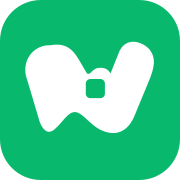
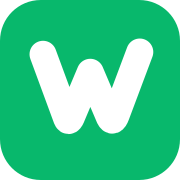
feat: Integrate the custom W into the WeGen2 wordmark

Changed region(s): [[0.1389, 0.1944, 0.8611, 0.75]]

diff --git a/WeGen2/index.html b/WeGen2/index.html
@@ -11,13 +11,13 @@
     <link rel="canonical" href="https://zhuangshaobin.github.io/WeGen2/" />
     <meta property="og:title" content="WeGen2 — Native Pixel-Space Multimodal Creation" />
     <meta property="og:description" content="Bring an idea. See where it goes. Image generation, editing and composition with WeGen2." />
-    <meta property="og:image" content="https://zhuangshaobin.github.io/WeGen2/assets/release-cover.webp?v=20261119w" />
+    <meta property="og:image" content="https://zhuangshaobin.github.io/WeGen2/assets/release-cover.webp?v=20261119inlinew" />
     <meta property="og:type" content="website" />
     <meta name="twitter:card" content="summary_large_image" />
     <meta name="theme-color" content="#f8f9f3" />
     <meta name="robots" content="noindex,nofollow" />
-    <link rel="icon" type="image/svg+xml" href="assets/wegen2-favicon.svg?v=20261119w" />
-    <link rel="apple-touch-icon" sizes="180x180" href="assets/wegen2-apple-touch-icon.png?v=20261119w" />
+    <link rel="icon" type="image/svg+xml" href="assets/wegen2-favicon.svg?v=20261119inlinew" />
+    <link rel="apple-touch-icon" sizes="180x180" href="assets/wegen2-apple-touch-icon.png?v=20261119inlinew" />
     <!-- INLINE_STYLE_START -->
     <style>
       :root {
@@ -1890,7 +1890,7 @@
         left: 46px;
       }
       .brand-hero #hero-title {
-        width: min(880px, 83%);
+        width: min(740px, 83%);
         padding: 0;
         margin: 10px 0 0;
         line-height: 0;
@@ -2009,6 +2009,30 @@
         color: var(--muted, #527063);
         font-size: 13px;
       }
+
+      /* The custom W is part of the wordmark, including navigation and footer. */
+      .wordmark {
+        gap: 0;
+        line-height: 0;
+      }
+      .site-header .wordmark img {
+        display: block;
+        width: 150px;
+        height: auto;
+      }
+      footer .wordmark img {
+        display: block;
+        width: 132px;
+        height: auto;
+      }
+      @media (max-width: 760px) {
+        .site-header .wordmark img {
+          width: 132px;
+        }
+        footer .wordmark img {
+          width: 124px;
+        }
+      }
     </style>
     <!-- INLINE_STYLE_END -->
   </head>
@@ -2016,8 +2040,8 @@
     <a class="skip-link" href="#main">Skip to content</a>
     <header class="site-header">
       <a class="wordmark" href="#main" aria-label="WeGen2 home"
-        ><img alt="" decoding="async" height="38" src="assets/wegen2-mark.svg?v=20261119w" width="38" /><span>WeGen2</span></a
-      >
+        ><img alt="WeGen2" decoding="async" width="365" height="88" src="assets/wegen2-wordmark.svg?v=20261119inlinew"
+      /></a>
       <nav aria-label="Main navigation">
         <a href="#capabilities">Explore</a><a href="#film">Film</a><a href="#method">The model</a
         ><a href="#inference" class="nav-pill">Get started <span aria-hidden="true">↗</span></a>
@@ -2027,47 +2051,52 @@
       <section class="hero brand-hero" aria-labelledby="hero-title">
         <p class="brand-eyebrow">Unified multimodal creation</p>
         <h1 id="hero-title" aria-label="WeGen2">
-          <svg class="hero-wordmark" xmlns="http://www.w3.org/2000/svg" width="508" height="128" viewBox="0 0 508 128" role="img" aria-label="WeGen2">
+          <svg class="hero-wordmark" xmlns="http://www.w3.org/2000/svg" width="365" height="88" viewBox="0 20 365 88" role="img" aria-label="WeGen2">
             <title>WeGen2</title>
-            <desc>An unfolding W with a pixel-shaped open centre. Original WeGen2 identity.</desc>
-            <defs>
-              <mask id="wg2-hero-pixel" maskUnits="userSpaceOnUse" x="0" y="0" width="128" height="128">
-                <rect width="128" height="128" fill="white" />
-                <path d="M64 54 H73 A4 4 0 0 1 77 58 V67 A4 4 0 0 1 73 71 H64 A4 4 0 0 1 60 67 V58 A4 4 0 0 1 64 54 Z" fill="black" />
-              </mask>
-            </defs>
-            <g mask="url(#wg2-hero-pixel)">
-              <path
-                d="M28 24 C40 22 47 25 54 37 L61 49 C65 51 65 44 73 44 C78 44 80 46 82 49 L90 29 C96 17 109 20 116 27 C123 35 121 44 116 56 L104 85 C98 101 87 105 75 100 C67 97 61 89 55 85 C46 79 41 91 33 98 C27 104 22 100 19 92 L8 55 C3 42 9 29 21 25 C24 24 26 24 28 24 Z"
-                fill="#08B86C"
-              />
-              <path
-                d="M82 49 L90 29 C96 17 109 20 116 27 C123 35 121 44 116 56 L104 85 C98 101 87 105 75 100 C67 97 61 89 55 85 C46 79 41 91 33 98 C39 87 43 70 60 70 L66 70 C76 70 77 59 82 49 Z"
-                fill="#07533C"
-              />
+            <desc>The rounded two-tone W forms the first letter of WeGen2.</desc>
+            <g data-brand-initial="W" transform="translate(0.465048 17.437086) scale(0.75349522)">
+              <g aria-label="W">
+                <path
+                  d="M22 32 L43 89 Q45 94 48 86 L64 48 L81 88 Q84 94 87 86 L108 30"
+                  stroke="#08B86C"
+                  fill="none"
+                  stroke-width="24"
+                  stroke-linecap="round"
+                  stroke-linejoin="round"
+                />
+                <path
+                  d="M64 48 L81 88 Q84 94 87 86 L108 30"
+                  stroke="#07533C"
+                  fill="none"
+                  stroke-width="24"
+                  stroke-linecap="round"
+                  stroke-linejoin="round"
+                />
+              </g>
             </g>
-            <g fill="#073F32">
+            <g data-brand-rest="eGen2" transform="translate(-141.717374 0)" fill="#073F32">
               <path
-                transform="translate(144.00000 94) scale(0.08800000 -0.08800000)"
-                d="M267.554443359375 0 16.675048828125 705H176.239501953125L358.710205078125 160.515869140625H315.577880859375L508.927978515625 705H621.468994140625L805.939697265625 160.515869140625H768.7470703125L954.84423828125 705H1105.216064453125L852.336669921875 0H726.289794921875L549.445556640625 501.27978515625H573.38525390625L393.91455078125 0Z"
-              />
-              <path
+                xmlns="http://www.w3.org/2000/svg"
                 transform="translate(236.14375 94) scale(0.08800000 -0.08800000)"
                 d="M312.89111328125 -10.62646484375Q226.445556640625 -10.62646484375 163.7830810546875 20.686767578125Q101.12060546875 52 67.36767578125 109.4698486328125Q33.61474609375 166.939697265625 33.61474609375 245.2529296875Q33.61474609375 321.2529296875 66.054443359375 378.566162109375Q98.494140625 435.87939453125 155.560302734375 468.5360107421875Q212.62646484375 501.192626953125 285.505859375 501.192626953125Q357.698486328125 501.192626953125 409.7344970703125 470.566162109375Q461.7705078125 439.939697265625 490.3668212890625 383.8433837890625Q518.963134765625 327.7470703125 518.963134765625 250.807373046875V212.86767578125H158.107177734375V290.819091796875H409.9765625L394.289794921875 277.072021484375Q394.289794921875 338.180908203125 367.7353515625 369.669189453125Q341.180908203125 401.157470703125 292.072021484375 401.157470703125Q255.39697265625 401.157470703125 229.1859130859375 384.163330078125Q202.974853515625 367.169189453125 189.1976318359375 335.2713623046875Q175.42041015625 303.37353515625 175.42041015625 257.819091796875V250.192626953125Q175.42041015625 198.951416015625 190.854248046875 166.2403564453125Q206.2880859375 133.529296875 237.7822265625 117.8785400390625Q269.2763671875 102.227783203125 316.14404296875 102.227783203125Q355.89111328125 102.227783203125 397.0477294921875 114.2579345703125Q438.204345703125 126.2880859375 471.2646484375 150.7822265625L510.963134765625 50.494140625Q474.39697265625 22.433837890625 420.457275390625 5.9036865234375Q366.517578125 -10.62646484375 312.89111328125 -10.62646484375Z"
               />
               <path
+                xmlns="http://www.w3.org/2000/svg"
                 transform="translate(283.75625 94) scale(0.08800000 -0.08800000)"
                 d="M420.072021484375 -10.62646484375Q300.87939453125 -10.62646484375 218.5 34.0Q136.12060546875 78.62646484375 93.0242919921875 159.62646484375Q49.927978515625 240.62646484375 49.927978515625 350.060302734375Q49.927978515625 462.060302734375 94.6507568359375 544.0301513671875Q139.37353515625 626 223.505859375 670.813232421875Q307.63818359375 715.62646484375 425.336669921875 715.62646484375Q475.0234375 715.62646484375 521.14990234375 706.439697265625Q567.2763671875 697.2529296875 606.589599609375 680.0360107421875Q645.90283203125 662.819091796875 673.589599609375 638.698486328125L624.324951171875 518.33837890625Q577.63818359375 551.892822265625 529.89111328125 566.639892578125Q482.14404296875 581.386962890625 425.963134765625 581.386962890625Q319.2880859375 581.386962890625 265.546875 522.025146484375Q211.8056640625 462.663330078125 211.8056640625 350.060302734375Q211.8056640625 237.39697265625 266.5770263671875 179.1917724609375Q321.348388671875 120.986572265625 428.2646484375 120.986572265625Q463.566162109375 120.986572265625 501.7470703125 128.046875Q539.927978515625 135.107177734375 577.36181640625 147.854248046875L548.289794921875 84.589599609375V277.2294921875H396.313232421875V388.830810546875H676.2763671875V42.62646484375Q641.7705078125 26 599.330810546875 14.186767578125Q556.89111328125 2.37353515625 511.1080322265625 -4.12646484375Q465.324951171875 -10.62646484375 420.072021484375 -10.62646484375Z"
               />
               <path
+                xmlns="http://www.w3.org/2000/svg"
                 transform="translate(348.35312 94) scale(0.08800000 -0.08800000)"
                 d="M312.89111328125 -10.62646484375Q226.445556640625 -10.62646484375 163.7830810546875 20.686767578125Q101.12060546875 52 67.36767578125 109.4698486328125Q33.61474609375 166.939697265625 33.61474609375 245.2529296875Q33.61474609375 321.2529296875 66.054443359375 378.566162109375Q98.494140625 435.87939453125 155.560302734375 468.5360107421875Q212.62646484375 501.192626953125 285.505859375 501.192626953125Q357.698486328125 501.192626953125 409.7344970703125 470.566162109375Q461.7705078125 439.939697265625 490.3668212890625 383.8433837890625Q518.963134765625 327.7470703125 518.963134765625 250.807373046875V212.86767578125H158.107177734375V290.819091796875H409.9765625L394.289794921875 277.072021484375Q394.289794921875 338.180908203125 367.7353515625 369.669189453125Q341.180908203125 401.157470703125 292.072021484375 401.157470703125Q255.39697265625 401.157470703125 229.1859130859375 384.163330078125Q202.974853515625 367.169189453125 189.1976318359375 335.2713623046875Q175.42041015625 303.37353515625 175.42041015625 257.819091796875V250.192626953125Q175.42041015625 198.951416015625 190.854248046875 166.2403564453125Q206.2880859375 133.529296875 237.7822265625 117.8785400390625Q269.2763671875 102.227783203125 316.14404296875 102.227783203125Q355.89111328125 102.227783203125 397.0477294921875 114.2579345703125Q438.204345703125 126.2880859375 471.2646484375 150.7822265625L510.963134765625 50.494140625Q474.39697265625 22.433837890625 420.457275390625 5.9036865234375Q366.517578125 -10.62646484375 312.89111328125 -10.62646484375Z"
               />
               <path
+                xmlns="http://www.w3.org/2000/svg"
                 transform="translate(395.96562 94) scale(0.08800000 -0.08800000)"
                 d="M58.422119140625 0V490.566162109375H205.7939453125V398.517578125H194.7939453125Q217.733642578125 448.38525390625 263.2939453125 474.7889404296875Q308.854248046875 501.192626953125 366.601318359375 501.192626953125Q425.601318359375 501.192626953125 463.76653575067934 478.79390920474543Q501.9317531419837 456.3951914563658 520.7665357506794 410.4778200721877Q539.601318359375 364.5604486880095 539.601318359375 294.554443359375V0H388.60302734375V287.927978515625Q388.60302734375 322.169189453125 380.35595703125 343.35009765625Q372.10888671875 364.531005859375 355.6598909818209 374.46484375Q339.21089524489184 384.398681640625 313.7587890625 384.398681640625Q282.457275390625 384.398681640625 258.8277013442096 370.8428236607143Q235.19812729779412 357.2869656808036 222.30926872702207 332.38201729910713Q209.42041015625 307.4770689174107 209.42041015625 274.060302734375V0Z"
               />
               <path
+                xmlns="http://www.w3.org/2000/svg"
                 transform="translate(447.62500 94) scale(0.08800000 -0.08800000)"
                 d="M74.36181640625 0V114.733642578125L294.531005859375 347.39697265625Q323.33837890625 377.89111328125 340.4288330078125 403.072021484375Q357.519287109375 428.2529296875 365.7362060546875 451.2772216796875Q373.953125 474.301513671875 373.953125 497.169189453125Q373.953125 541.2177734375 345.58544921875 563.9288330078125Q317.2177734375 586.639892578125 263.482421875 586.639892578125Q219.927978515625 586.639892578125 176.994140625 570.392822265625Q134.060302734375 554.145751953125 93.060302734375 519.651611328125L43.169189453125 634.445556640625Q87.048583984375 671.505859375 151.4581298828125 693.566162109375Q215.86767578125 715.62646484375 284.494140625 715.62646484375Q363.313232421875 715.62646484375 417.192626953125 692.1566162109375Q471.072021484375 668.686767578125 499.01171875 623.7470703125Q526.951416015625 578.807373046875 526.951416015625 514.2412109375Q526.951416015625 482.2412109375 519.7646484375 451.7412109375Q512.577880859375 421.2412109375 497.2344970703125 391.3978271484375Q481.89111328125 361.554443359375 458.2344970703125 330.36767578125Q434.577880859375 299.180908203125 400.951416015625 265.494140625L225.7939453125 87.03515625V127.2998046875H553.324951171875V0Z"
               />
@@ -2122,14 +2151,14 @@
             controls
             playsinline
             preload="none"
-            poster="assets/film-poster-v7.webp"
+            poster="assets/film-poster-v8.webp"
             width="1920"
             height="1080"
             aria-label="WeGen2 showcase and model introduction"
           >
-            <source src="assets/wegen2-film-v7-720.mp4" type="video/mp4" />
-            <track kind="captions" src="assets/film-captions-v7.vtt" srclang="en" label="English descriptions" />
-            Your browser does not support embedded video. <a href="assets/wegen2-film-v7.mp4">Download the film</a>.
+            <source src="assets/wegen2-film-v8-720.mp4" type="video/mp4" />
+            <track kind="captions" src="assets/film-captions-v8.vtt" srclang="en" label="English descriptions" />
+            Your browser does not support embedded video. <a href="assets/wegen2-film-v8.mp4">Download the film</a>.
           </video>
           <div class="film-start" hidden>
             <button id="film-start-button" type="button"><span aria-hidden="true">▷</span><span class="film-start-label">Play film</span></button>
@@ -2153,7 +2182,7 @@
                 <option value="360">360p</option>
               </select></label
             >
-            <a href="assets/wegen2-film-v7.mp4" download>Download 1080p ↗</a><a href="film-transcript.html?v=film7">Visual transcript ↗</a>
+            <a href="assets/wegen2-film-v8.mp4" download>Download 1080p ↗</a><a href="film-transcript.html?v=film8">Visual transcript ↗</a>
           </div>
         </div>
         <p class="fine-print">Model-generated images, presented through editorial motion design. Original instrumental score.</p>
@@ -2809,9 +2838,9 @@ next_image.save("paper-world-night.png")</code></pre>
       </dialog>
     </main>
     <footer class="wrap">
-      <a class="wordmark" href="#main"
-        ><img alt="" decoding="async" height="30" src="assets/wegen2-mark.svg?v=20261119w" width="30" /><span>WeGen2</span></a
-      >
+      <a class="wordmark" href="#main" aria-label="WeGen2 home"
+        ><img alt="WeGen2" decoding="async" width="365" height="88" src="assets/wegen2-wordmark.svg?v=20261119inlinew"
+      /></a>
       <p>Native pixels. Multimodal context. Visual creation.</p>
       <a href="#main">Back to top ↑</a>
     </footer>
@@ -3108,15 +3137,15 @@ next_image.save("paper-world-night.png")</code></pre>
     </script>
     <script type="application/json" id="film-config-data">
       {
-        "mediaPath": "assets/film-hls-v7/",
+        "mediaPath": "assets/film-hls-v8/",
         "mirrors": [
-          "https://raw.githubusercontent.com/zhuangshaobin/zhuangshaobin.github.io/49e3856ef42a50f1781efac4616557cb14b677e5/WeGen2/assets/film-hls-v7/",
-          "https://cdn.jsdelivr.net/gh/zhuangshaobin/zhuangshaobin.github.io@49e3856ef42a50f1781efac4616557cb14b677e5/WeGen2/assets/film-hls-v7/"
+          "https://raw.githubusercontent.com/zhuangshaobin/zhuangshaobin.github.io/c1fba63b04322f03c61539adb21ffc6b2f7868e0/WeGen2/assets/film-hls-v8/",
+          "https://cdn.jsdelivr.net/gh/zhuangshaobin/zhuangshaobin.github.io@c1fba63b04322f03c61539adb21ffc6b2f7868e0/WeGen2/assets/film-hls-v8/"
         ],
         "library": "player/hls.light-1.7.4.min.js",
         "libraryFallback": "https://cdn.jsdelivr.net/npm/hls.js@1.7.4/dist/hls.light.min.js",
         "libraryIntegrity": "sha384-vpNtFjJmrPAaL9LfqByx3MxTVjqrtQ6Ue6UVNnFeghNrhE0uvpydDr3tkTVcBgDz",
-        "mp4Sources": { "480": "assets/wegen2-film-v7-480.mp4", "720": "assets/wegen2-film-v7-720.mp4", "1080": "assets/wegen2-film-v7.mp4" }
+        "mp4Sources": { "480": "assets/wegen2-film-v8-480.mp4", "720": "assets/wegen2-film-v8-720.mp4", "1080": "assets/wegen2-film-v8.mp4" }
       }
     </script>
     <!-- INLINE_DATA_END -->

diff --git a/WeGen2/style.css b/WeGen2/style.css
@@ -1868,7 +1868,7 @@ footer > a:last-child {
   left: 46px;
 }
 .brand-hero #hero-title {
-  width: min(880px, 83%);
+  width: min(740px, 83%);
   padding: 0;
   margin: 10px 0 0;
   line-height: 0;
@@ -1986,4 +1986,28 @@ footer > a:last-child {
   margin: 12px 0 0;
   color: var(--muted, #527063);
   font-size: 13px;
+}
+
+/* The custom W is part of the wordmark, including navigation and footer. */
+.wordmark {
+  gap: 0;
+  line-height: 0;
+}
+.site-header .wordmark img {
+  display: block;
+  width: 150px;
+  height: auto;
+}
+footer .wordmark img {
+  display: block;
+  width: 132px;
+  height: auto;
+}
+@media (max-width: 760px) {
+  .site-header .wordmark img {
+    width: 132px;
+  }
+  footer .wordmark img {
+    width: 124px;
+  }
 }
